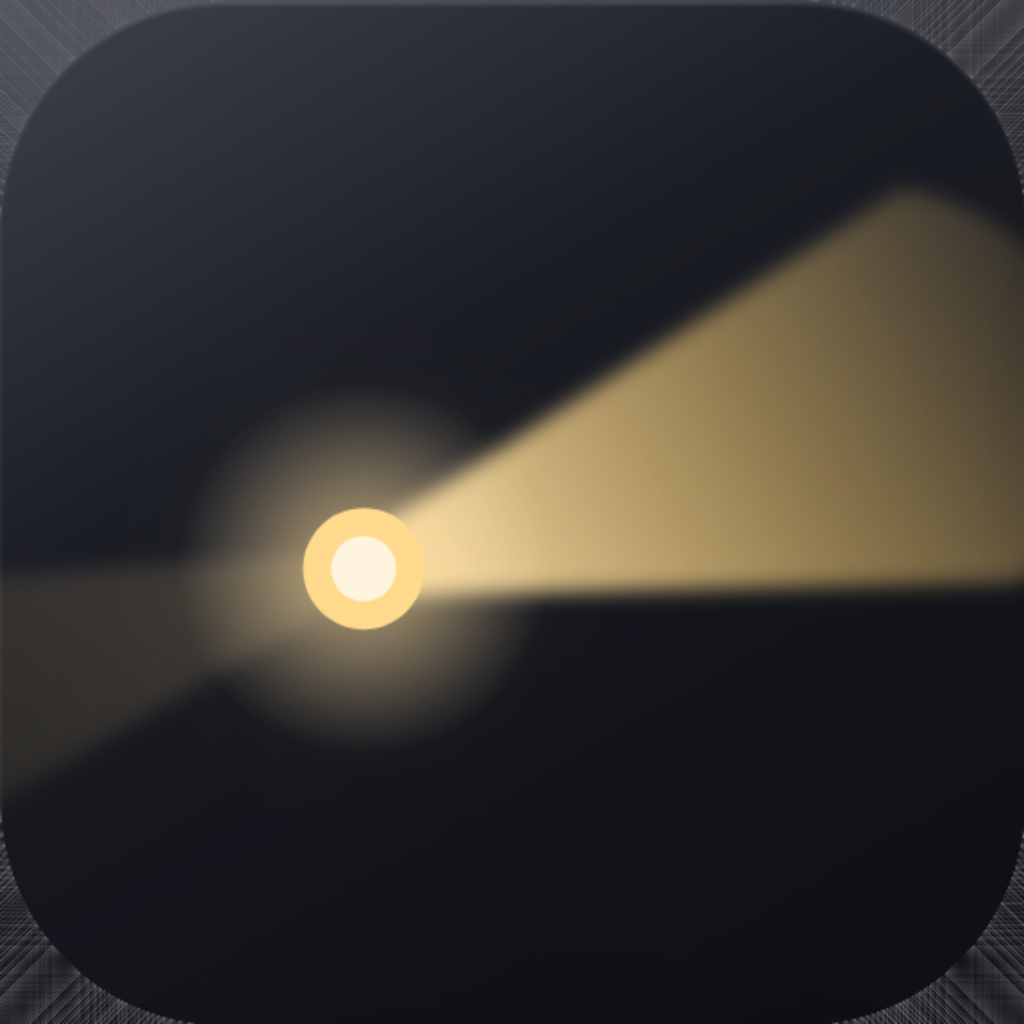
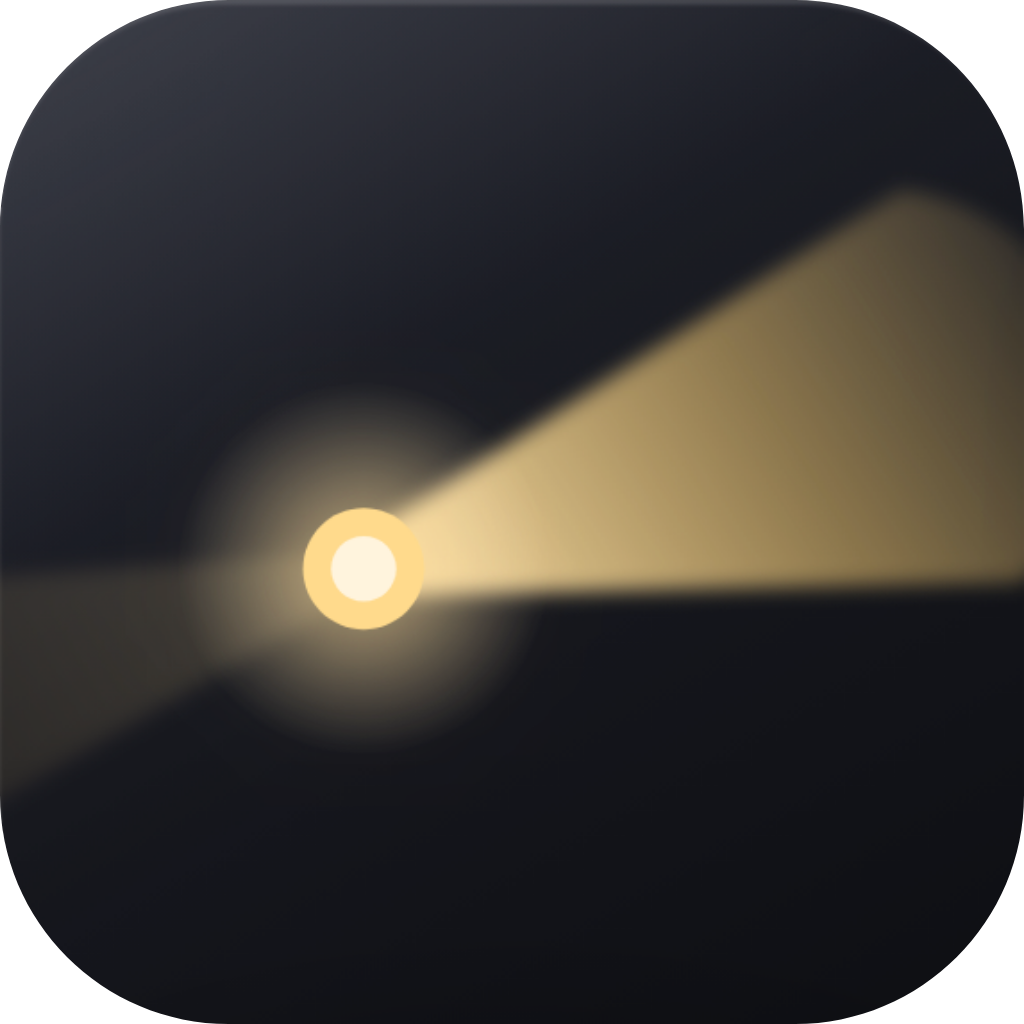
Update README

diff --git a/README.md b/README.md
@@ -8,30 +8,36 @@
 
 Beacon brings a Happ / v2RayTun-style experience to the Mac: subscription profiles, one-click connect, full-traffic tunneling, and professional domain/IP routing, all in a clean menu-bar app.
 
+> **Fork.** Beacon is a fork of [faustyu1/veil](https://github.com/faustyu1/veil).
+
 > **Disclaimer.** Beacon is a client for proxy protocols intended for privacy, development, and lawful circumvention of censorship. You are responsible for complying with the laws and terms of service that apply to you. The bundled cores ([Xray-core](https://github.com/XTLS/Xray-core), [sing-box](https://github.com/SagerNet/sing-box), [tun2socks](https://github.com/xjasonlyu/tun2socks)) are third-party software under their own licenses.
+
+## Contents
+
+- [Features](#features)
+- [Requirements](#requirements)
+- [Install](#install-from-a-release)
+- [Build from source](#build-from-source)
+- [Usage](#usage)
+- [Acknowledgements](#acknowledgements)
+- [License](#license)
 
 ## Features
 
-- **Protocols (two cores)**
-  - **Xray-core** - VLESS, VMess, Trojan, Shadowsocks. Reality & TLS security. `tcp`, `ws`, `grpc`, `http`, `xhttp` transports. XTLS `xtls-rprx-vision` flow. VLESS post-quantum encryption (ML-KEM-768 + X25519).
-  - **sing-box** - Hysteria2, TUIC, WireGuard, AnyTLS (QUIC-based & modern protocols Xray can't handle). The right core is chosen automatically per server.
-- **Two tunnel modes**
-  - **System Proxy** - sets the macOS SOCKS/HTTP proxy. No admin password. Covers browsers and proxy-aware apps.
-  - **TUN (all apps)** - routes *everything* (Telegram, terminal, games, UDP) through [tun2socks](https://github.com/xjasonlyu/tun2socks). A one-time privileged helper install means server switches never ask for a password again.
-- **Subscriptions** - import subscription URLs; each becomes its own profile group. Reads `Subscription-Userinfo` (traffic & expiry), `Profile-Title` (name) and `Announce` (description) headers. Auto-update on a configurable interval.
-- **QR codes** - show any server as a QR code (copy link or save PNG), and import servers by scanning a QR with the camera or decoding it from an image file.
-- **Professional routing** (v2rayN / Nekoray style)
-  - Presets: **Global**, **Bypass LAN**, **Bypass China**, **Bypass Russia**, **Custom**.
-  - Downloadable `geosite.dat` / `geoip.dat` rule databases from GitHub (Loyalsoldier, runetfreedom, v2fly, or a custom URL).
-  - Full ordered rule editor: per-rule outbound (proxy / direct / block), domain & IP matchers (`domain:`, `geosite:`, `keyword:`, `regexp:`, `geoip:cn`, `geoip:private`), port, enable/disable, reordering.
-  - One-tap ad & tracker blocking (`geosite:category-ads-all`).
-- **Fast switching** - switching servers in the same mode keeps the transport up and only restarts the core, re-pinning the route. Sub-second, no password prompt.
-- **Latency testing** - TCP-connect ping per server or per group, with host-route bypass while TUN is active. Sort by ping, filter to alive-only, search.
-- **Menu-bar control** - connect / disconnect and quick-switch servers without opening the window.
-- **System integration** - launch at login (via `SMAppService`) and macOS notifications on connect / disconnect / reconnect.
-- **Quality of life** - collapsible groups, click-to-connect, multi-select deletion (active server is protected), close-to-tray, auto-connect on launch, configurable SOCKS/HTTP ports and core log level, light/dark/system themes.
-- **Localized** in 12 languages: English, Русский, 中文, Español, हिन्दी, العربية, Français, Português, Deutsch, 日本語, Bahasa Indonesia, Türkçe.
-- **Safe shutdown** - restores routes/DNS on quit and recovers from a crashed previous session so you're never left without internet.
+- Two cores: Xray-core (VLESS, VMess, Trojan, Shadowsocks) and sing-box (Hysteria2, TUIC, WireGuard, AnyTLS)
+- Reality & TLS, XTLS Vision flow, VLESS post-quantum encryption
+- System Proxy mode, no admin password
+- TUN mode routes every app, no password after first setup
+- Subscription import with traffic, expiry, and title headers
+- QR code export and import (image or camera)
+- v2rayN-style geo routing with presets and a full rule editor
+- One-tap ad & tracker blocking
+- Sub-second server switching with no password prompt
+- Per-server and per-group latency testing
+- Menu-bar connect, disconnect, and quick-switch
+- Launch at login and connect/disconnect notifications
+- Localized in 12 languages
+- Safe shutdown that restores routes and DNS
 
 ## Requirements
 
@@ -71,53 +77,22 @@ Scripts/run-app.sh release
 swift test
 ```
 
-Covers the share-link parsers (VLESS/VMess/Trojan/SS/Hysteria2/TUIC/AnyTLS/WireGuard), the link builder (round-trip), and both the Xray and sing-box config builders.
-
 ## Usage
 
-1. **Add servers** - *Subscription* to import a subscription URL, or *Add Link* to paste `vless://` / `vmess://` / `trojan://` / `ss://` / `hysteria2://` / `tuic://` / `anytls://` / `wireguard://` links (one per line). You can also import from a QR code (image file or camera).
-2. **Pick a mode** - *Proxy* for browsers, *TUN* for everything. The first TUN connection installs a small root-owned helper via a single password prompt.
-3. **Connect** - click a server to select (and connect/switch). The connect button and menu-bar item act on the remembered server.
-4. **Routing** - *Settings → Routing → Configure…*. Choose a preset or build custom rules. Geo-based presets download the rule database on first use.
+Add servers with a subscription URL or by pasting share links. You can also import from a QR code.
 
-## How it works
+Pick a mode. Proxy covers browsers. TUN covers every app and asks for your password once on first use.
 
-```
-SwiftUI app (Beacon)
- ├─ Xray-core (subprocess)         VLESS/VMess/Trojan/SS - SOCKS + HTTP inbounds on 127.0.0.1
- ├─ sing-box (subprocess)          Hysteria2/TUIC/WireGuard/AnyTLS - same SOCKS + HTTP inbounds
- │    └─ your server outbound + direct/block, routing rules (core chosen per server)
- ├─ System Proxy mode              networksetup points the active service at the SOCKS/HTTP ports
- └─ TUN mode                       tun2socks utun device + split-default routes (0/1 + 128/1),
-                                    server IP pinned to the physical gateway
-```
+Click a server to connect or switch. The connect button and menu-bar item act on the last server you picked.
 
-- **No-password TUN** - a one-time install copies the helper scripts to `/usr/local/libexec/beacon` and adds a scoped `NOPASSWD` sudoers rule limited to those exact scripts. Subsequent up/down/switch run via `sudo -n`.
-- **Routing** - `geosite:` matches domains and `geoip:` matches IPs by country, resolved from `geoip.dat` / `geosite.dat` (pointed to via `XRAY_LOCATION_ASSET`).
-- **Storage** - subscriptions and settings persist as JSON in `~/Library/Application Support/`.
-
-## Project layout
-
-```
-Sources/XrayClient/
-  App.swift                 app entry, menu-bar extra, lifecycle
-  Models/                   ProxyConfig, Subscription, AppSettings, Routing
-  Core/                     LinkParser, LinkBuilder, QRCode, SubscriptionFetcher,
-                            XrayConfigBuilder, SingBoxConfigBuilder, XrayProcess,
-                            SystemProxy, TunManager, ConnectionManager, ServerStore,
-                            PingTester, GeoAssetManager, SystemIntegration, Localization
-  Views/                    ContentView, MenuBarContent, SettingsSheet, RoutingSheet,
-                            AddServerSheet, QRDisplaySheet, CameraScannerView
-  Resources/                xray, sing-box, tun2socks (fetched), helper shell scripts
-Scripts/                    fetch-*, run-app.sh, make-icon.sh, tun-*, *-helper.sh
-Tests/                      parser, link-builder & config-builder tests
-```
+Set routing under Settings, Routing, Configure. Choose a preset or build your own rules.
 
 ## Acknowledgements
 
+- [faustyu1/veil](https://github.com/faustyu1/veil) - the project Beacon is forked from
 - [XTLS/Xray-core](https://github.com/XTLS/Xray-core) - VLESS/VMess/Trojan/SS proxy engine
 - [SagerNet/sing-box](https://github.com/SagerNet/sing-box) - Hysteria2/TUIC/WireGuard/AnyTLS engine
-- [xjasonlyu/tun2socks](https://github.com/xjasonlyu/tun2socks) - TUN ↔ SOCKS
+- [xjasonlyu/tun2socks](https://github.com/xjasonlyu/tun2socks) - TUN to SOCKS
 - Rule databases: [Loyalsoldier/v2ray-rules-dat](https://github.com/Loyalsoldier/v2ray-rules-dat), [runetfreedom/russia-v2ray-rules-dat](https://github.com/runetfreedom/russia-v2ray-rules-dat), [v2fly](https://github.com/v2fly)
 
 ## License